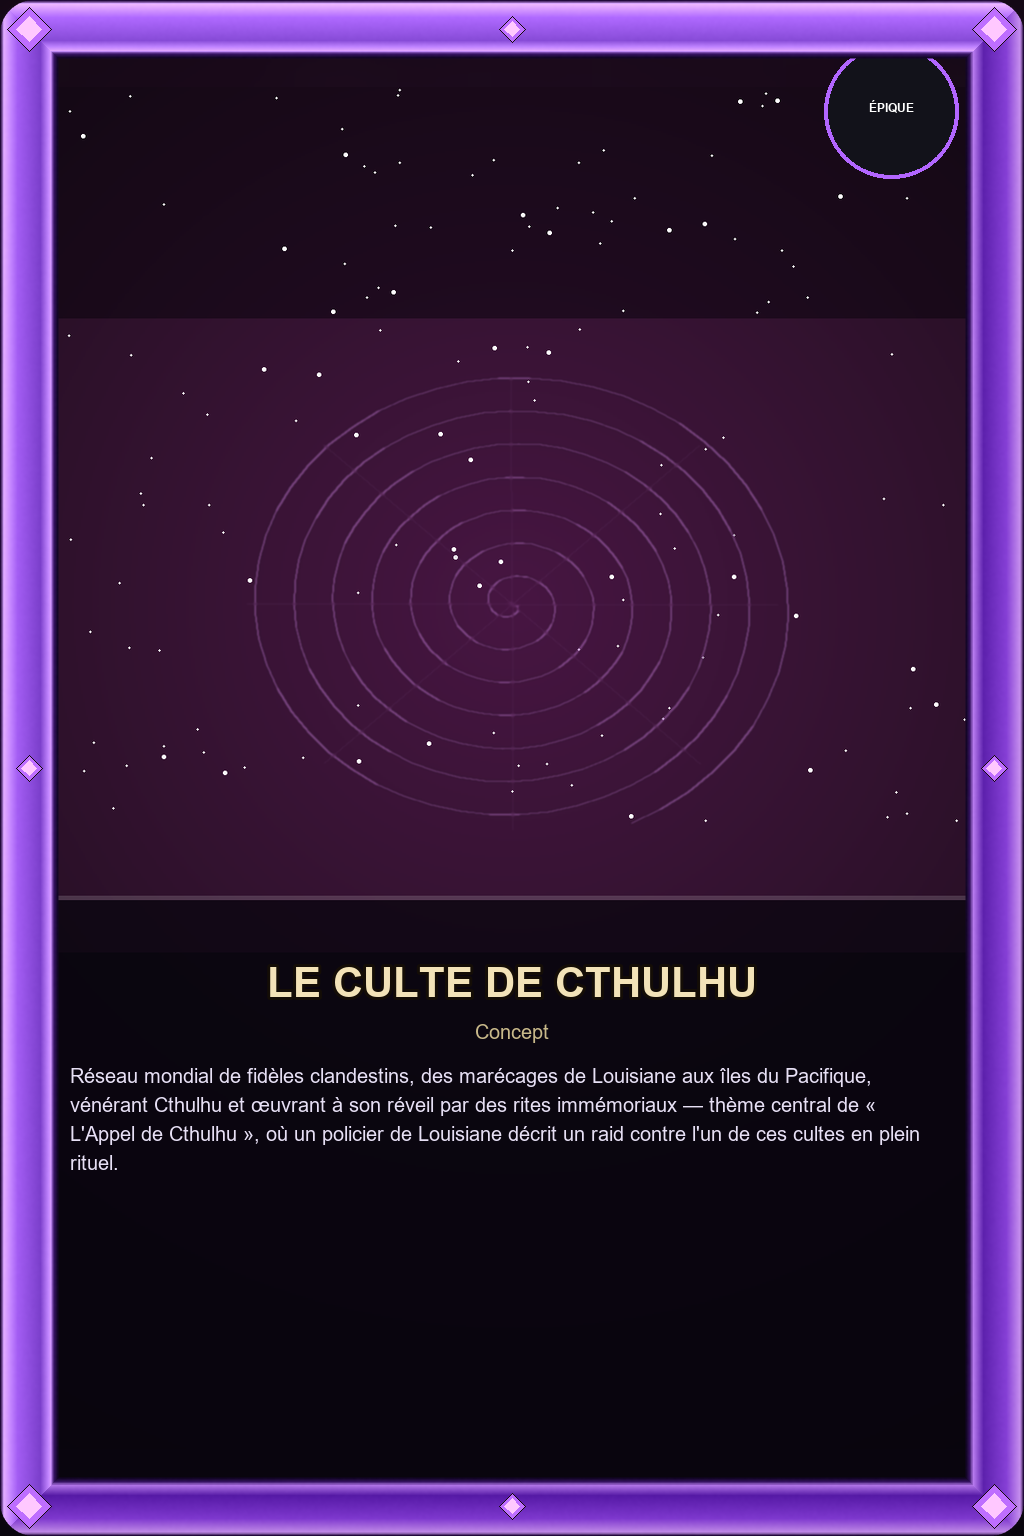
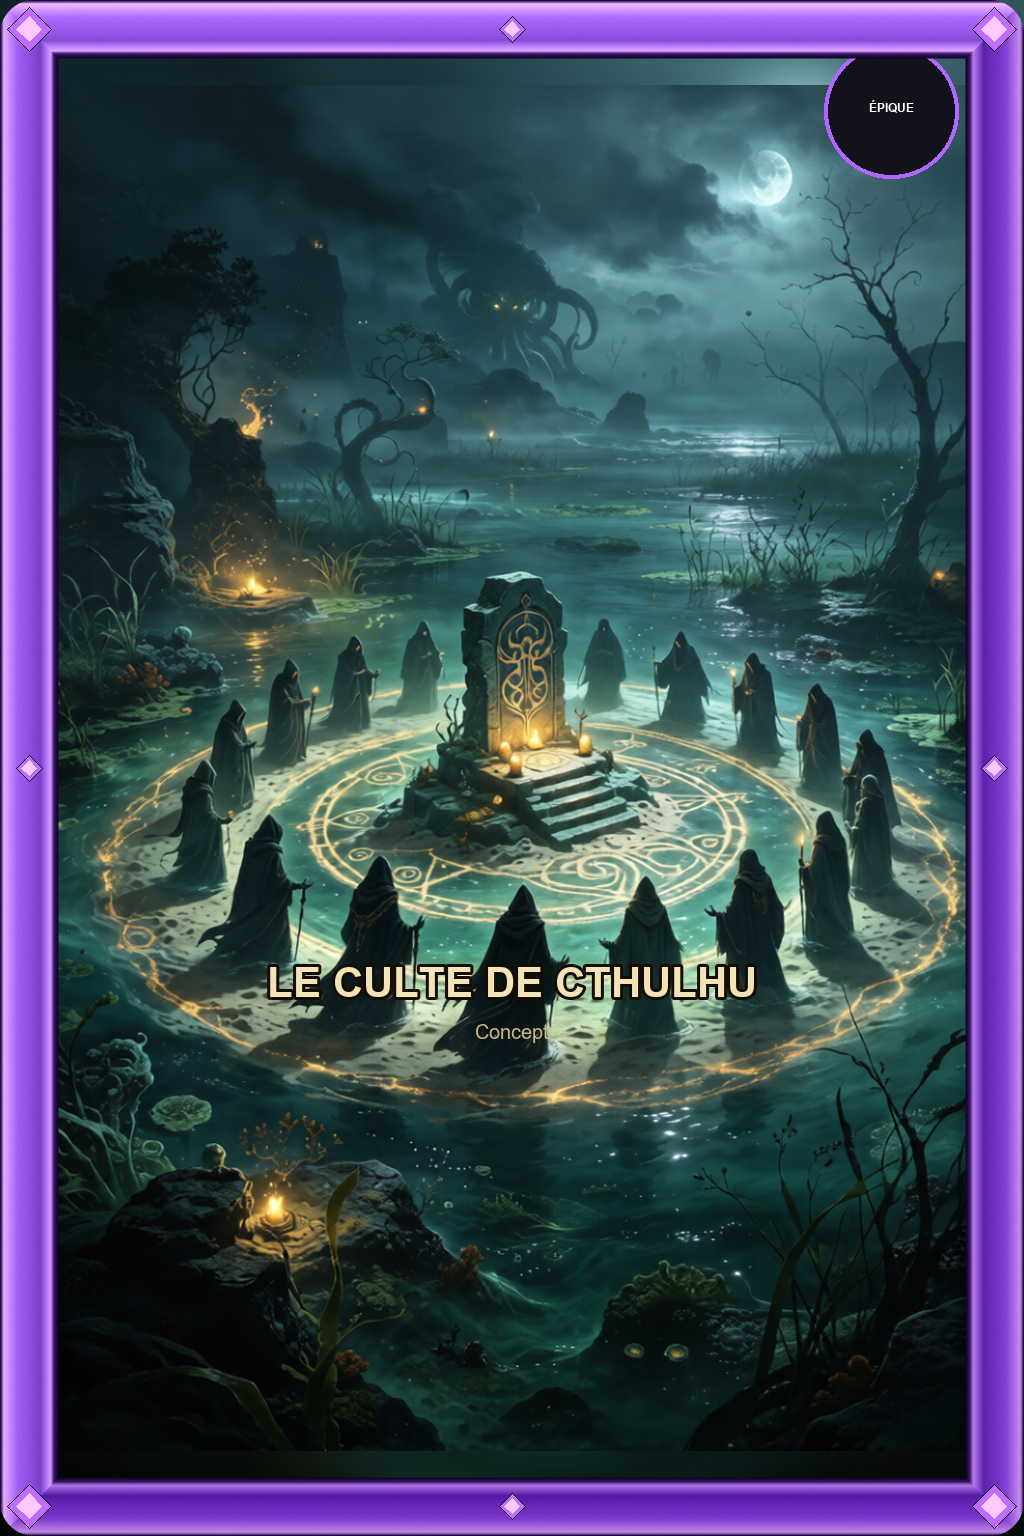
Collections TCG (page publique) mises à jour

diff --git a/tcg_collections.html b/tcg_collections.html
@@ -148,7 +148,7 @@ footer .tentacle-rule{font-size:18px;letter-spacing:14px;margin-bottom:14px;opac
 
 <script>
 const DATA = {
-  "generated_at": "23/10/2026 à 04:41",
+  "generated_at": "23/10/2026 à 04:42",
   "rarities": [
     {
       "id": "commune",
